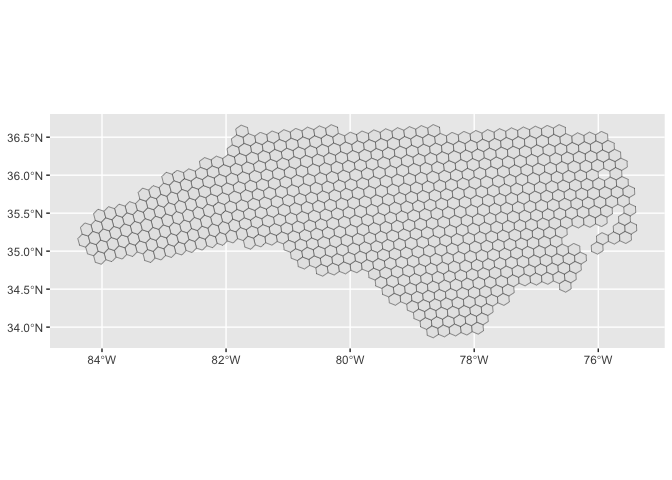
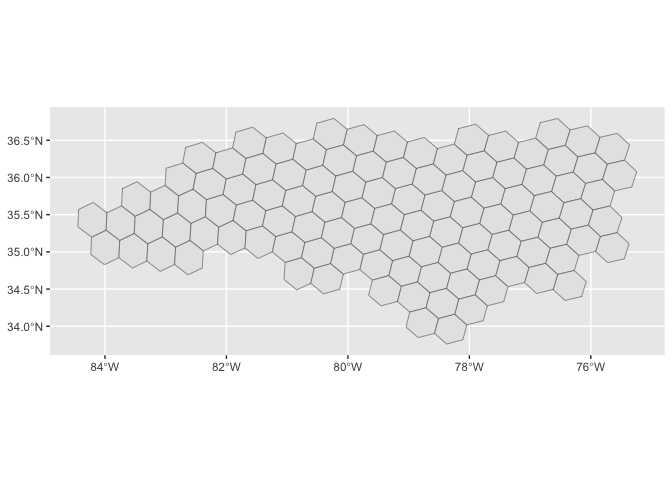
8th commit

diff --git a/README.md b/README.md
@@ -48,7 +48,7 @@ nc = st_read(system.file("shape/nc.shp", package="sf"))
 Create an h3 grid of resolution 5
 
 ``` r
-h3_grid_nc <- get_h3_grid(nc, resolution = 5)
+h3_grid_nc <- get_h3_grid(nc, resolution = 4)
 ```
 
 Make a map
